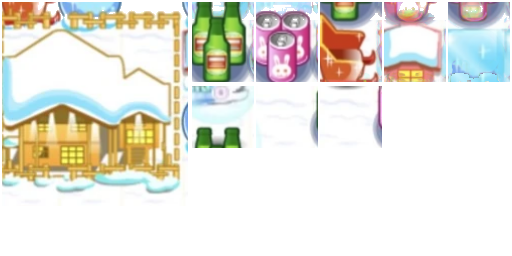
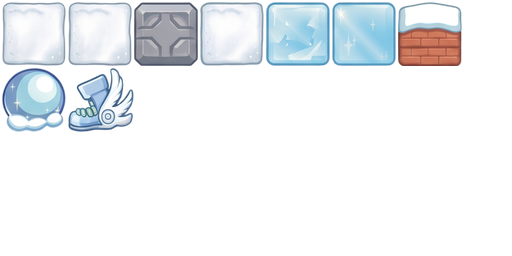
New asset

diff --git a/packages/client/src/textures.ts b/packages/client/src/textures.ts
@@ -73,28 +73,24 @@ export const TEX = {
     [PowerupType.ExtraBomb]: { key: G1, frame: 'bonus_bomb' },
     [PowerupType.BiggerBlast]: { key: G1, frame: 'bonus_hand' },
     [PowerupType.Speed]: { key: G1, frame: 'whistle' },
-    // Rendered tinted cyan (KICK_TINT) to read as the kick skill.
-    [PowerupType.Kick]: { key: G1, frame: 'bomb' },
+    [PowerupType.Kick]: { key: G6, frame: 'boots' },
   } as Record<PowerupType, TexRef>,
   /**
-   * Winter theme extracted from the Bomb-It ice level. Blocks are 62x80:
-   * a 62x62 opaque tile (snow floor baked in) plus an 18px transparent
-   * overhang; draw anchored to the tile bottom (origin y = 1) and depth-sort
-   * by row so overhangs overlap the cell above, on top of `winter.floor`.
+   * Winter theme. All blocks are flat 64x64 square tiles (no overhang):
+   * stretch to the 48px grid tile and draw soft/hard blocks directly on top
+   * of `winter.floor` — no depth sorting needed.
    */
   winter: {
     floor: { key: G6, frame: 'winter_floor' },
     floorAlt: { key: G6, frame: 'winter_floor2' },
     hardBlock: { key: G6, frame: 'winter_wall' },
     softBlocks: [
-      { key: G6, frame: 'winter_block_cans' },
-      { key: G6, frame: 'winter_block_sled' },
-      { key: G6, frame: 'winter_block_window' },
+      { key: G6, frame: 'winter_block_snow' },
       { key: G6, frame: 'winter_block_ice' },
+      { key: G6, frame: 'winter_block_ice_sparkle' },
+      { key: G6, frame: 'winter_block_brick' },
       { key: G6, frame: 'winter_block_snowball' },
     ],
-    /** 3x3-tile centerpiece decoration (186x204, 18px top overhang). */
-    lodge: { key: G6, frame: 'winter_lodge' },
   },
   background: { key: G2, frame: 'background' },
   leaderboard: { key: G4, frame: 'background_leaderboard' },

diff --git a/packages/client/src/scenes/GameScene.ts b/packages/client/src/scenes/GameScene.ts
@@ -543,7 +543,8 @@ export class GameScene extends Phaser.Scene {
     if (warning) {
       badge.setTint(KICK_WARNING_TINT).setVisible(blinkOn);
     } else {
-      badge.setTint(KICK_TINT).setVisible(true);
+      badge.clearTint();
+      badge.setVisible(true);
     }
   }
 
@@ -651,7 +652,7 @@ export class GameScene extends Phaser.Scene {
 
   private reconcilePowerups(state: RenderState): void {
     const live = new Map(
-      state.powerups.map((p) => [cellKey(p.col, p.row), { ref: TEX.powerup[p.type], type: p.type }]),
+      state.powerups.map((p) => [cellKey(p.col, p.row), { ref: TEX.powerup[p.type] }]),
     );
     for (const [key, entry] of this.powerupSprites) {
       if (live.get(key)?.ref !== entry.ref) {
@@ -669,11 +670,10 @@ export class GameScene extends Phaser.Scene {
         this.powerupSprites.delete(key);
       }
     }
-    for (const [key, { ref, type }] of live) {
+    for (const [key, { ref }] of live) {
       if (this.powerupSprites.has(key)) continue;
       const [col, row] = key.split(',').map(Number);
       const sprite = addImage(this, toX(col), toY(row), ref).setDepth(DEPTH.powerup);
-      if (type === PowerupType.Kick) sprite.setTint(KICK_TINT);
       sprite.setScale(SPRITE_SIZE.powerupHeight / sprite.height);
       this.tweens.add({
         targets: sprite,

diff --git a/packages/client/src/skillsTable.ts b/packages/client/src/skillsTable.ts
@@ -1,6 +1,6 @@
 import Phaser from 'phaser';
 import { PowerupType } from '@bomberman/shared';
-import { KICK_TINT, TEX, TEXT_RES, addImage } from './textures';
+import { TEX, TEXT_RES, addImage } from './textures';
 
 /** One skill row: powerup type, name, and a one-line effect. */
 const SKILLS: { type: PowerupType; name: string; effect: string }[] = [
@@ -43,7 +43,6 @@ export function buildSkillsTable(
     const rowY = y + HEADER_GAP + i * ROW_HEIGHT;
     const icon = addImage(scene, x + ICON_SIZE / 2, rowY + ICON_SIZE / 2, TEX.powerup[skill.type]);
     icon.setScale(ICON_SIZE / icon.height);
-    if (skill.type === PowerupType.Kick) icon.setTint(KICK_TINT);
     objects.push(icon);
 
     objects.push(
